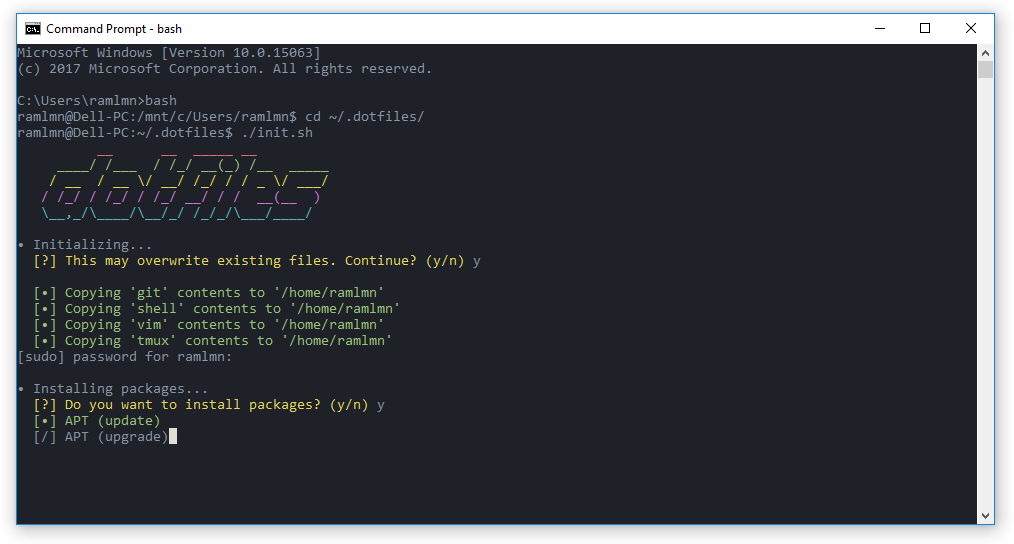
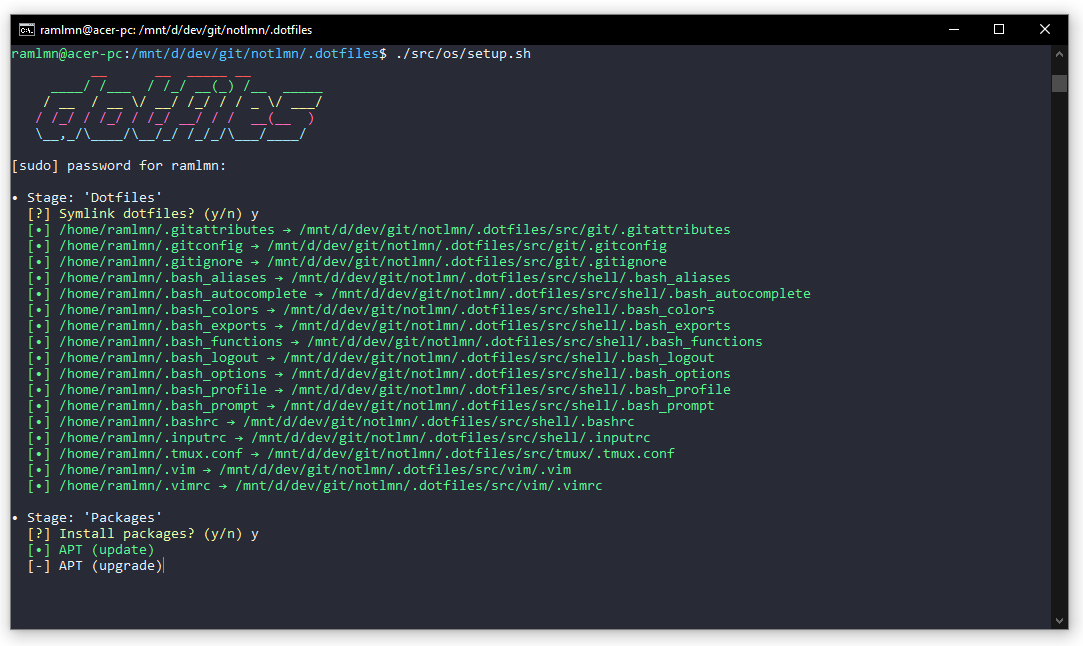
[chore] Updates to stages and Vim packages
- Add onedark as Git submodule

- Add Git submodules stage

- Add specific configuration instructions in readme

Changed region(s): [[0.0, 0.0, 1.0, 1.0], [0.3669, 0.125, 0.428, 0.1562]]

diff --git a/README.md b/README.md
@@ -1,16 +1,22 @@
 # dotfiles
 > Some random dudes dotfiles repository
 
+
 ## Installation
+> **Note**: This repository contains code used to configure computer based on how [I](https://github.com/notlmn) like it to be.
+> This might be something for you, please review code you find on the internet before you run it.
+>
+> The script is also assumed to be run in a Debin environment.
+
 ``` bash
-$ git clone https://github.com/notlmn/.dotfiles.git
-$ cd .dotfiles
-$ ./src/os/setup.sh
+git clone https://github.com/notlmn/.dotfiles.git
+cd .dotfiles
+./src/os/setup.sh
 ```
+
 
 ## Screenshots
 
-### Installation and Vim
 <table>
   <tbody>
     <tr>
@@ -28,7 +34,6 @@ $ ./src/os/setup.sh
   </tbody>
 </table>
 
-### tmux
 <table>
   <tbody>
     <tr>
@@ -37,24 +42,51 @@ $ ./src/os/setup.sh
       </td>
     </tr>
     <tr align="center">
-      <td>Vim</td>
+      <td>tmux</td>
     </tr>
   </tbody>
 </table>
 
-## Suggested colors
-- Vim uses [one-dark](https://github.com/AlexMax/.vim/blob/master/colors/one.vim) theme by AlexMax
-- [Snazzy](https://github.com/sindresorhus/hyper-snazzy) terminal theme by Sindre Sorhus
-  - Use [colortool](https://github.com/Microsoft/console/tree/master/tools/ColorTool) on Windows
-  - Use [gogh](https://github.com/Mayccoll/Gogh/) for Gnome Terminal
+
+## Configuration
+
+### Submodules
+The stage "Submodules" is kinof optional, used to initialize and update Git's submodules, like Vim's packages.
+
+You can skip this stage while running the script, and run the following commands later.
+
+``` bash
+git submodule init
+git submodule update
+```
+
+### Git configuration
+After running the script you might also want to update your Git configuration with the following commands.
+
+``` bash
+git config --global user.name <name>
+git config --global user.email <email>
+
+# For signing Git commits
+git config --global commit.gpgsign true
+git config --global user.signingkey <keyid>
+```
+
+### Terminal
+- Terminal emulator.
+  - [Alacritty](https://github.com/jwilm/alacritty), GPU accelerated cross-platform terminal emulator.
+  - [Terminal](https://github.com/microsoft/Terminal), new Windows Terminal (when released in future).
+- [Snazzy](https://github.com/sindresorhus/hyper-snazzy) theme by Sindre Sorhus.
+  - Use [ColorTool](https://github.com/Microsoft/Terminal/tree/master/src/tools/ColorTool) on Windows.
+  - Use [Gogh](https://github.com/Mayccoll/Gogh) for Gnome Terminal.
 
 ## Acknowledgements
 Inspiration and code was intentionally stolen from many sources, including:
 
-- [Cătălin Mariș dotfiles](https://github.com/alrra/dotfiles)
-- [Mathias Bynens' dotfiles](https://github.com/mathiasbynens/dotfiles)
-- [Paul Irish's dotfiles](https://github.com/paulirish/dotfiles)
-- ... and other forgotten sources on the Internet
+- [Cătălin Mariș dotfiles](https://github.com/alrra/dotfiles).
+- [Mathias Bynens' dotfiles](https://github.com/mathiasbynens/dotfiles).
+- [Paul Irish's dotfiles](https://github.com/paulirish/dotfiles).
+- ...and other forgotten sources on the Internet.
 
 ## License
-Licensed under [MIT](LICENSE)
+Licensed under [MIT](LICENSE).
